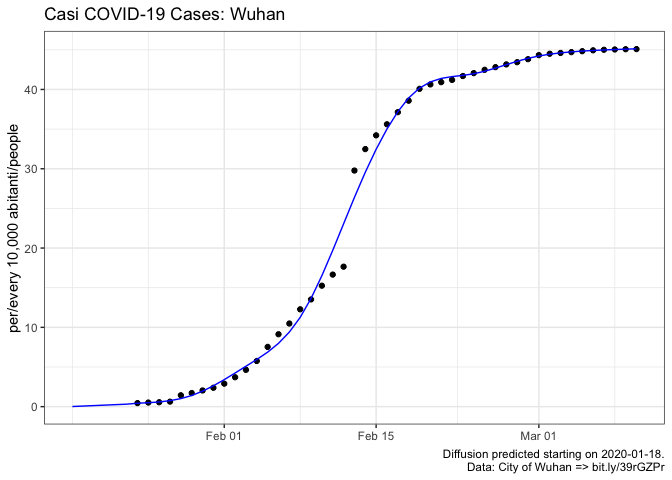
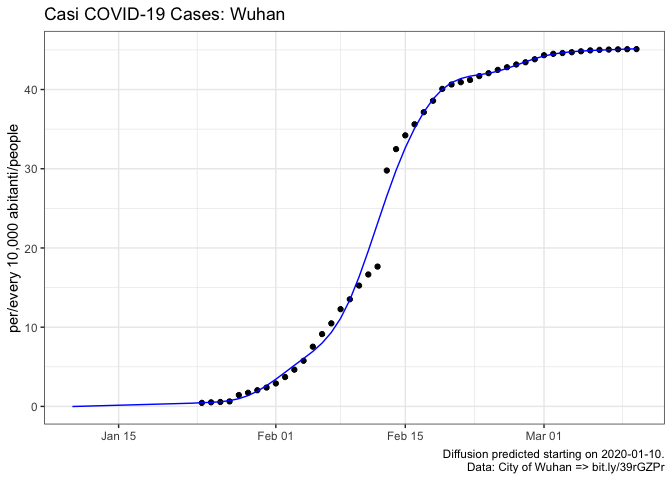
Updated

diff --git a/README.md b/README.md
@@ -37,19 +37,19 @@ library(mgcv)
     ## 
     ##     collapse
 
-    ## This is mgcv 1.8-28. For overview type 'help("mgcv-package")'.
+    ## This is mgcv 1.8-26. For overview type 'help("mgcv-package")'.
 
 ``` r
 library(plyr)
 ```
 
-    ## ------------------------------------------------------------------------------
+    ## -------------------------------------------------------------------------
 
     ## You have loaded plyr after dplyr - this is likely to cause problems.
     ## If you need functions from both plyr and dplyr, please load plyr first, then dplyr:
     ## library(plyr); library(dplyr)
 
-    ## ------------------------------------------------------------------------------
+    ## -------------------------------------------------------------------------
 
     ## 
     ## Attaching package: 'plyr'
@@ -193,7 +193,7 @@ wuhan_origin <-
 wuhan_origin
 ```
 
-    ## [1] "2020-01-18"
+    ## [1] "2020-01-10"
 
 ## Fit
 
@@ -287,105 +287,6 @@ for (prov in prov_ita.sf$SIGLA) {
   
 }
 ```
-
-    ## Error in smooth.construct.cr.smooth.spec(object, data, knots) : 
-    ##   x has insufficient unique values to support 10 knots: reduce k.
-    ## Error in smooth.construct.cr.smooth.spec(object, data, knots) : 
-    ##   x has insufficient unique values to support 10 knots: reduce k.
-    ## Error in smooth.construct.cr.smooth.spec(object, data, knots) : 
-    ##   x has insufficient unique values to support 10 knots: reduce k.
-    ## Error in mgcv::gam(formula = y ~ s(x, bs = "cs"), data = dat, method = "REML") : 
-    ##   Not enough (non-NA) data to do anything meaningful
-    ## Error in smooth.construct.cr.smooth.spec(object, data, knots) : 
-    ##   x has insufficient unique values to support 10 knots: reduce k.
-    ## Error in smooth.construct.cr.smooth.spec(object, data, knots) : 
-    ##   x has insufficient unique values to support 10 knots: reduce k.
-    ## Error in smooth.construct.cr.smooth.spec(object, data, knots) : 
-    ##   x has insufficient unique values to support 10 knots: reduce k.
-    ## Error in smooth.construct.cr.smooth.spec(object, data, knots) : 
-    ##   x has insufficient unique values to support 10 knots: reduce k.
-    ## Error in smooth.construct.cr.smooth.spec(object, data, knots) : 
-    ##   x has insufficient unique values to support 10 knots: reduce k.
-    ## Error in smooth.construct.cr.smooth.spec(object, data, knots) : 
-    ##   x has insufficient unique values to support 10 knots: reduce k.
-    ## Error in smooth.construct.cr.smooth.spec(object, data, knots) : 
-    ##   x has insufficient unique values to support 10 knots: reduce k.
-    ## Error in smooth.construct.cr.smooth.spec(object, data, knots) : 
-    ##   x has insufficient unique values to support 10 knots: reduce k.
-    ## Error in smooth.construct.cr.smooth.spec(object, data, knots) : 
-    ##   x has insufficient unique values to support 10 knots: reduce k.
-    ## Error in smooth.construct.cr.smooth.spec(object, data, knots) : 
-    ##   x has insufficient unique values to support 10 knots: reduce k.
-    ## Error in smooth.construct.cr.smooth.spec(object, data, knots) : 
-    ##   x has insufficient unique values to support 10 knots: reduce k.
-    ## Error in smooth.construct.cr.smooth.spec(object, data, knots) : 
-    ##   x has insufficient unique values to support 10 knots: reduce k.
-    ## Error in mgcv::gam(formula = y ~ s(x, bs = "cs"), data = dat, method = "REML") : 
-    ##   Not enough (non-NA) data to do anything meaningful
-    ## Error in smooth.construct.cr.smooth.spec(object, data, knots) : 
-    ##   x has insufficient unique values to support 10 knots: reduce k.
-    ## Error in smooth.construct.cr.smooth.spec(object, data, knots) : 
-    ##   x has insufficient unique values to support 10 knots: reduce k.
-    ## Error in smooth.construct.cr.smooth.spec(object, data, knots) : 
-    ##   x has insufficient unique values to support 10 knots: reduce k.
-    ## Error in smooth.construct.cr.smooth.spec(object, data, knots) : 
-    ##   x has insufficient unique values to support 10 knots: reduce k.
-    ## Error in smooth.construct.cr.smooth.spec(object, data, knots) : 
-    ##   x has insufficient unique values to support 10 knots: reduce k.
-    ## Error in smooth.construct.cr.smooth.spec(object, data, knots) : 
-    ##   x has insufficient unique values to support 10 knots: reduce k.
-    ## Error in smooth.construct.cr.smooth.spec(object, data, knots) : 
-    ##   x has insufficient unique values to support 10 knots: reduce k.
-    ## Error in smooth.construct.cr.smooth.spec(object, data, knots) : 
-    ##   x has insufficient unique values to support 10 knots: reduce k.
-    ## Error in smooth.construct.cr.smooth.spec(object, data, knots) : 
-    ##   x has insufficient unique values to support 10 knots: reduce k.
-    ## Error in smooth.construct.cr.smooth.spec(object, data, knots) : 
-    ##   x has insufficient unique values to support 10 knots: reduce k.
-    ## Error in smooth.construct.cr.smooth.spec(object, data, knots) : 
-    ##   x has insufficient unique values to support 10 knots: reduce k.
-    ## Error in smooth.construct.cr.smooth.spec(object, data, knots) : 
-    ##   x has insufficient unique values to support 10 knots: reduce k.
-    ## Error in smooth.construct.cr.smooth.spec(object, data, knots) : 
-    ##   x has insufficient unique values to support 10 knots: reduce k.
-    ## Error in smooth.construct.cr.smooth.spec(object, data, knots) : 
-    ##   x has insufficient unique values to support 10 knots: reduce k.
-    ## Error in smooth.construct.cr.smooth.spec(object, data, knots) : 
-    ##   x has insufficient unique values to support 10 knots: reduce k.
-    ## Error in smooth.construct.cr.smooth.spec(object, data, knots) : 
-    ##   x has insufficient unique values to support 10 knots: reduce k.
-    ## Error in smooth.construct.cr.smooth.spec(object, data, knots) : 
-    ##   x has insufficient unique values to support 10 knots: reduce k.
-    ## Error in smooth.construct.cr.smooth.spec(object, data, knots) : 
-    ##   x has insufficient unique values to support 10 knots: reduce k.
-    ## Error in smooth.construct.cr.smooth.spec(object, data, knots) : 
-    ##   x has insufficient unique values to support 10 knots: reduce k.
-    ## Error in smooth.construct.cr.smooth.spec(object, data, knots) : 
-    ##   x has insufficient unique values to support 10 knots: reduce k.
-    ## Error in smooth.construct.cr.smooth.spec(object, data, knots) : 
-    ##   x has insufficient unique values to support 10 knots: reduce k.
-    ## Error in smooth.construct.cr.smooth.spec(object, data, knots) : 
-    ##   x has insufficient unique values to support 10 knots: reduce k.
-    ## Error in mgcv::gam(formula = y ~ s(x, bs = "cs"), data = dat, method = "REML") : 
-    ##   Not enough (non-NA) data to do anything meaningful
-    ## Error in smooth.construct.cr.smooth.spec(object, data, knots) : 
-    ##   x has insufficient unique values to support 10 knots: reduce k.
-    ## Error in smooth.construct.cr.smooth.spec(object, data, knots) : 
-    ##   x has insufficient unique values to support 10 knots: reduce k.
-    ## Error in smooth.construct.cr.smooth.spec(object, data, knots) : 
-    ##   x has insufficient unique values to support 10 knots: reduce k.
-    ## Error in smooth.construct.cr.smooth.spec(object, data, knots) : 
-    ##   x has insufficient unique values to support 10 knots: reduce k.
-    ## Error in smooth.construct.cr.smooth.spec(object, data, knots) : 
-    ##   x has insufficient unique values to support 10 knots: reduce k.
-    ## Error in smooth.construct.cr.smooth.spec(object, data, knots) : 
-    ##   x has insufficient unique values to support 10 knots: reduce k.
-    ## Error in smooth.construct.cr.smooth.spec(object, data, knots) : 
-    ##   x has insufficient unique values to support 10 knots: reduce k.
-    ## Error in smooth.construct.cr.smooth.spec(object, data, knots) : 
-    ##   x has insufficient unique values to support 10 knots: reduce k.
-    ## Error in smooth.construct.cr.smooth.spec(object, data, knots) : 
-    ##   x has insufficient unique values to support 10 knots: reduce k.
 
 ``` r
 save(prov_long.df, file = "prov_wt_fit.RData")
